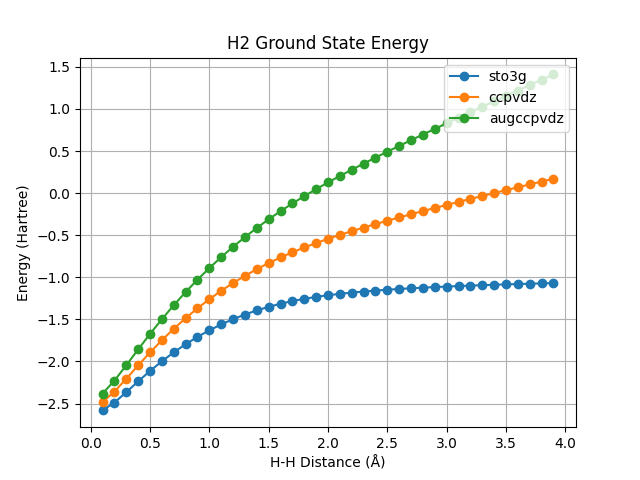
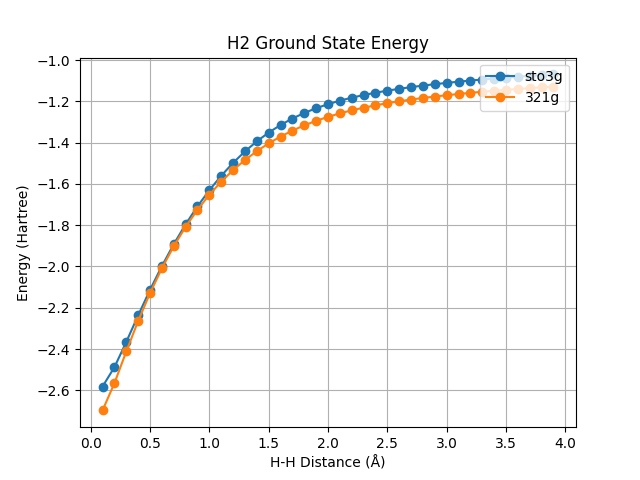
update report.png

diff --git a/H2_ideal_vqe.py b/H2_ideal_vqe.py
@@ -15,9 +15,9 @@ import matplotlib
 import matplotlib.pyplot as plt
 
 # Define the H-H distances to sample
-distances = np.arange(0.1, 1.0, 0.1)
+distances = np.arange(0.1, 4.0, 0.1)
 molecule = 'H .0 .0 -{0}; H .0 .0 {0}'
-basisNames = ["sto3g", "ccpvdz", "augccpvdz"]
+basisNames = ["sto3g", "321g"]
 
 # Initialize arrays to store distances and energies
 dissociation_curve = []
